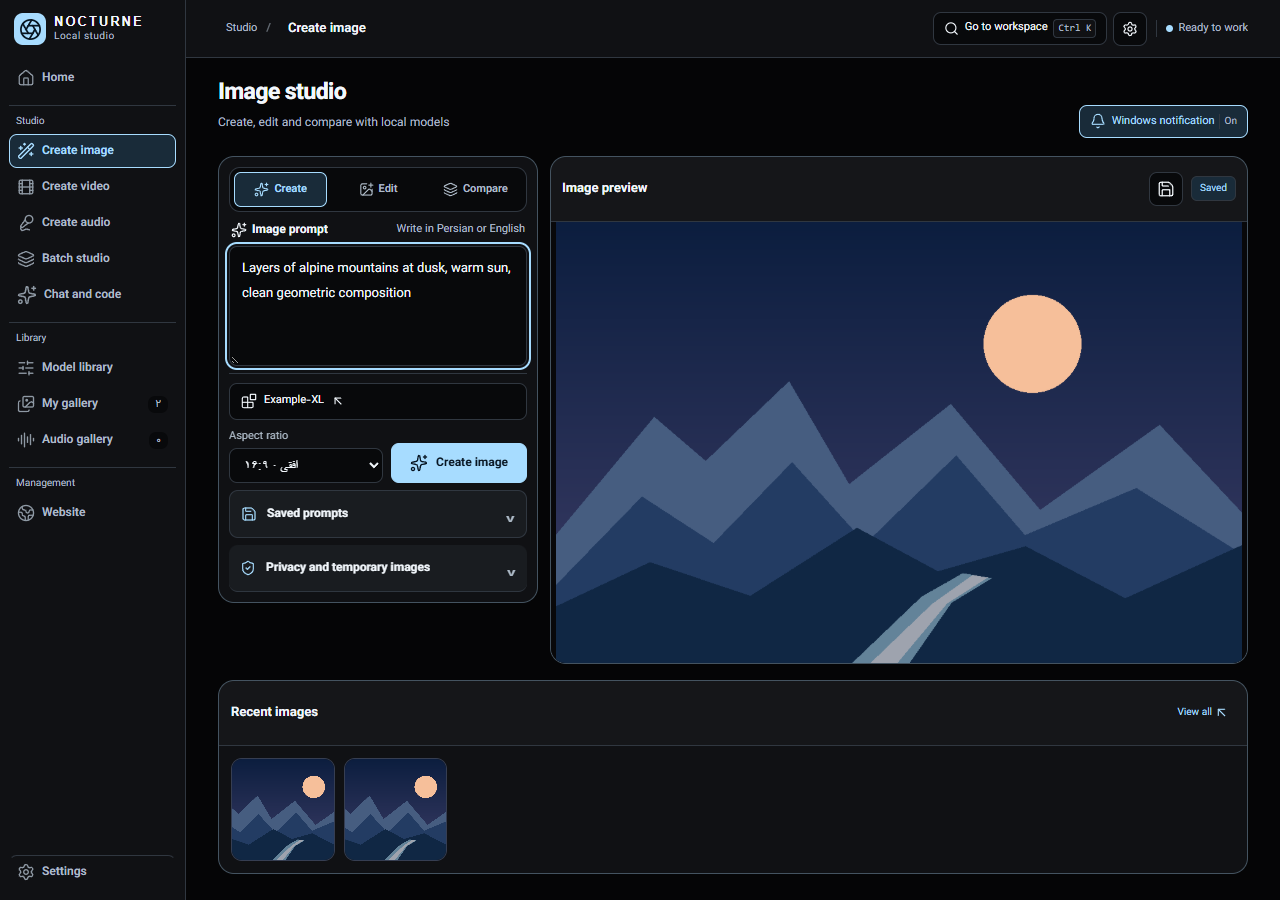
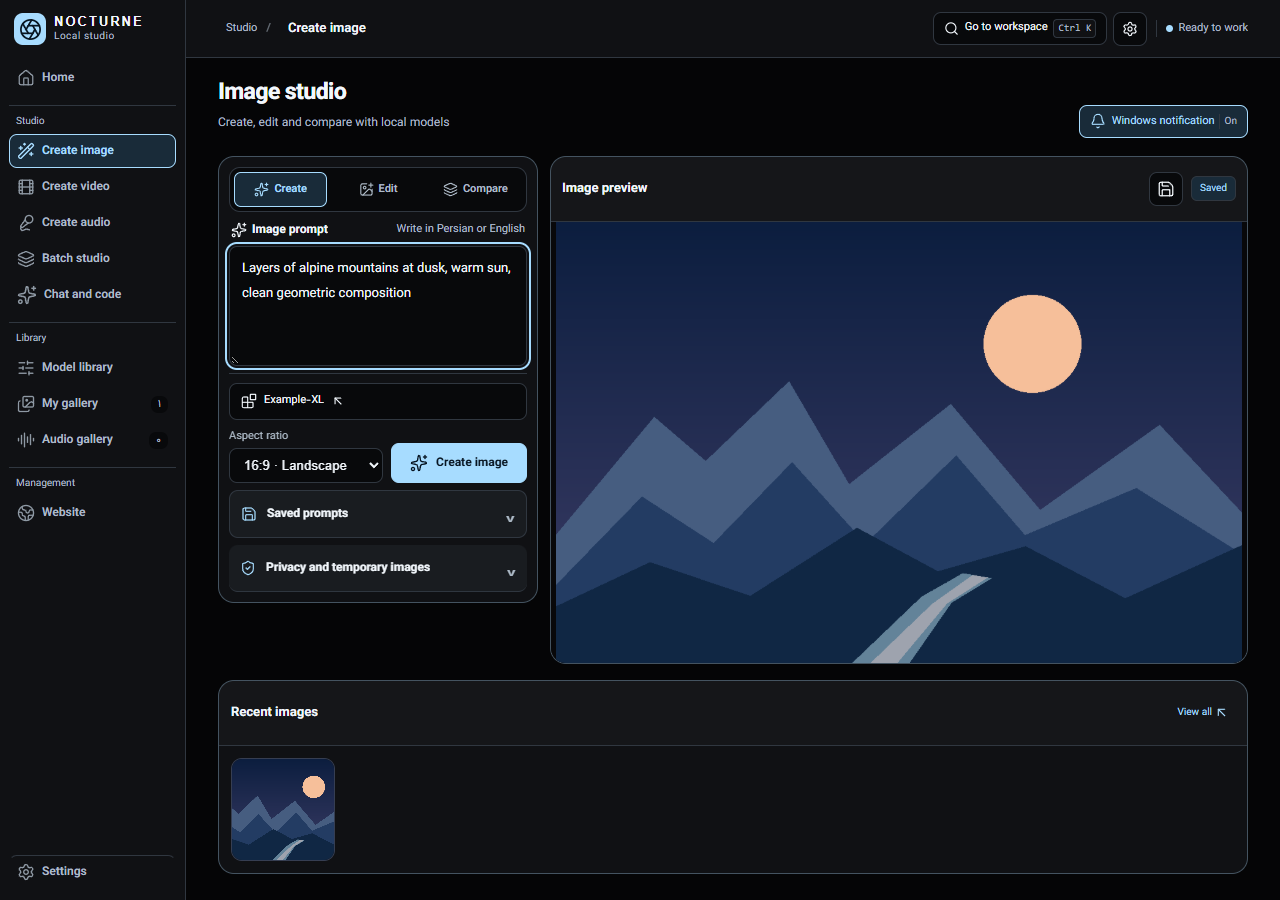
Complete aspect ratio and queue localization

Changed region(s): [[0.25, 0.84, 0.375, 0.9644], [0.1875, 0.4978, 0.2812, 0.5289]]

diff --git a/src/main.ts b/src/main.ts
@@ -193,6 +193,14 @@ Object.assign(english, {"تنظیمات ساخت دستهای":"Quick batch s
 
 Object.assign(english, additionalTranslations);
 
+const queueLabels = [
+  [/^Job (\d+)$/, "کار $1", /^کار (\d+)$/, "Job $1"],
+  [/^(\d+) jobs$/, "$1 کار", /^(\d+) کار$/, "$1 jobs"],
+  [/^(\d+) \/ (\d+) images$/, "$1 از $2 تصویر", /^(\d+) از (\d+) تصویر$/, "$1 / $2 images"],
+  [/^([\d,]+) \/ ([\d,]+) images generated$/, "$1 از $2 تصویر ساخته شد", /^([\d,]+) از ([\d,]+) تصویر ساخته شد$/, "$1 / $2 images generated"],
+  [/^([\d,]+) images generated$/, "$1 تصویر ساخته شد", /^([\d,]+) تصویر ساخته شد$/, "$1 images generated"],
+] as const;
+
 function applyLanguage() {
   document.documentElement.lang = language;
   document.documentElement.dir = language === 'en' ? 'ltr' : 'rtl';
@@ -204,6 +212,14 @@ function applyLanguage() {
     if (node.parentElement?.closest('#chat-threads, #chat-artifact-code, .cache-path, textarea, .chat-prose, .chat-file-names, .code-box pre, [data-queue-model] option[value]:not([value=""]), #preset-select option:not([value=""])')) continue;
     const original = node.textContent?.trim() || '';
     if (Object.hasOwn(translations, original)) node.textContent = node.textContent!.replace(original, translations[original]);
+    else if (node.parentElement?.matches('.queue-position, .queue-job-progress, #queue-jobs-count, #queue-details')) {
+      for (const [en, faText, fa, enText] of queueLabels) {
+        const pattern = language === 'en' ? fa : en;
+        if (!pattern.test(original)) continue;
+        node.textContent = node.textContent!.replace(original, original.replace(pattern, language === 'en' ? enText : faText));
+        break;
+      }
+    }
   }
   for (const element of app.querySelectorAll<HTMLElement>('[placeholder], [aria-label], [title]')) {
     for (const attribute of ['placeholder', 'aria-label', 'title']) {

diff --git a/src/translations.ts b/src/translations.ts
@@ -181,5 +181,23 @@ export const additionalTranslations: Record<string, string> = {
   "تغییر نور و ترکیببندی": "Add lighting and composition variations",
   "تصویر در مجموع": "images total",
   "یک کار اضافه کن تا پرامپت، مدل و تعداد تصاویرش را تعیین کنی.": "Add a job to choose its prompt, model and image count.",
-  "هر تصویر پس از ساخت ذخیره میشود. مدل فعال:": "Each image is saved when ready. Active model:"
+  "هر تصویر پس از ساخت ذخیره میشود. مدل فعال:": "Each image is saved when ready. Active model:",
+  "۱:۱ · مربع": "1:1 · Square",
+  "۱۶:۹ · افقی": "16:9 · Landscape",
+  "۹:۱۶ · عمودی": "9:16 · Portrait",
+  "۴:۳ · افقی": "4:3 · Landscape",
+  "۳:۴ · عمودی": "3:4 · Portrait",
+  "۳:۲ · افقی": "3:2 · Landscape",
+  "۲:۳ · عمودی": "2:3 · Portrait",
+  "صف کامل شد": "Queue completed",
+  "صف متوقف شد": "Queue stopped",
+  "صف با خطا متوقف شد": "Queue stopped with an error",
+  "صف آماده است": "Ready",
+  "هنوز تصویری ساخته نشده است.": "No images generated yet.",
+  "در حال شروع صف…": "Starting queue…",
+  "در حال اجرای صف تصویر…": "Running image queue…",
+  "در حال ساخت تصاویر…": "Generating images…",
+  "ساخت دستهای کامل شد": "Batch completed",
+  "ساخت تصاویر متوقف شد": "Generation stopped",
+  "صف ساخت دستهای با خطا متوقف شد": "Batch stopped with an error"
 };
